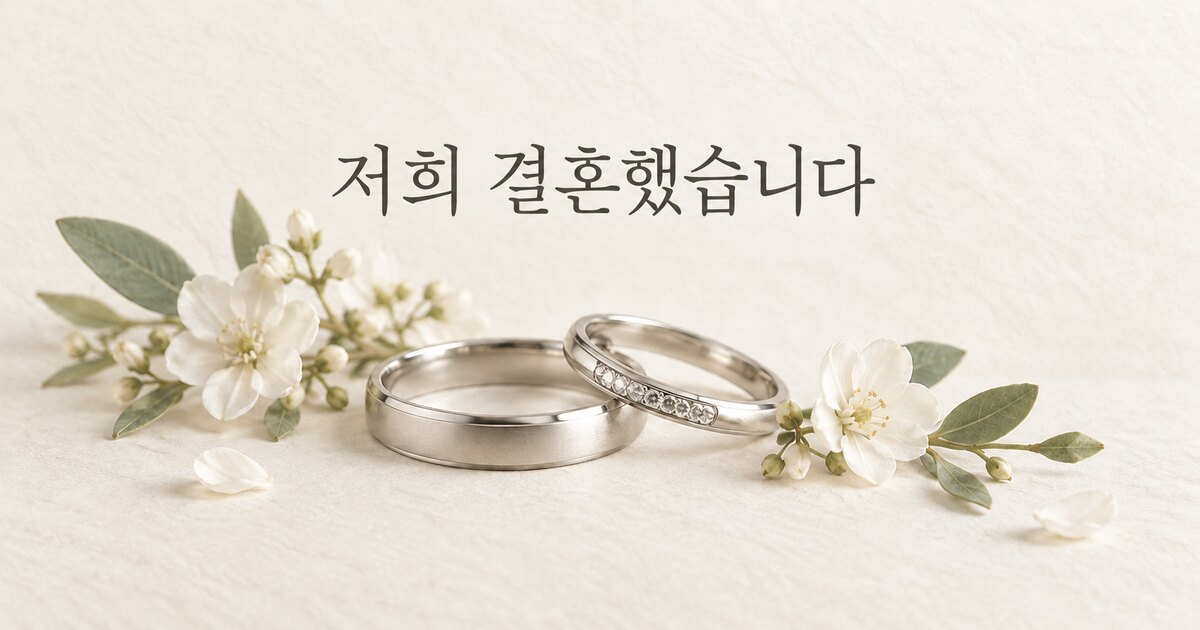
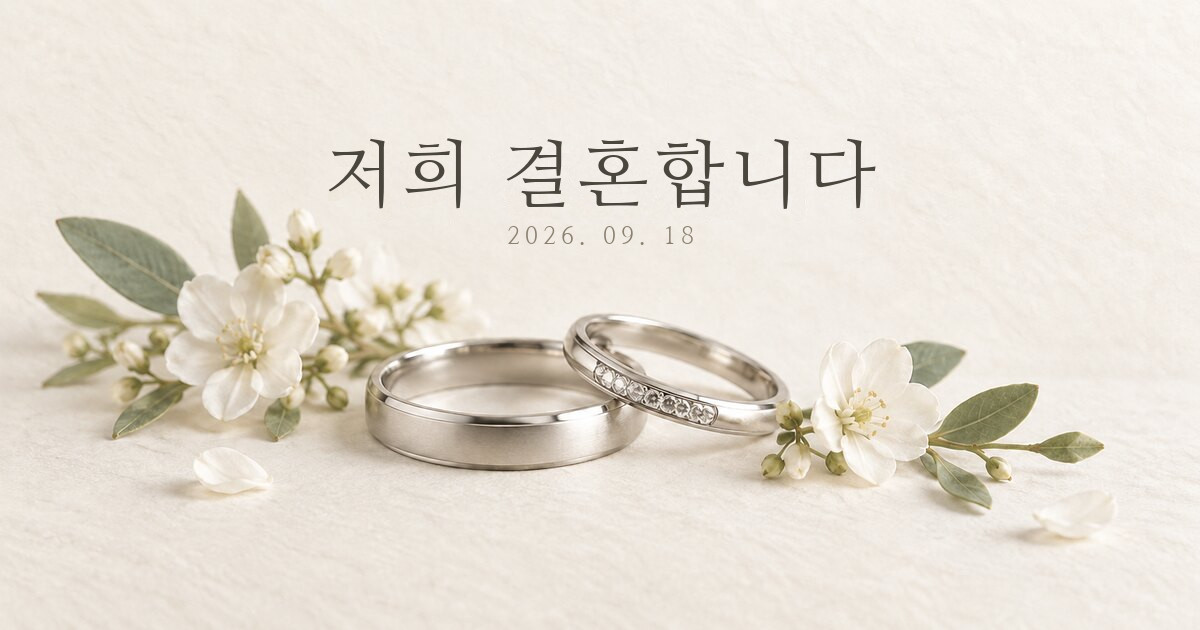
Redraw the OG image caption and drop the preview description
Replace the baked-in "저희 결혼했습니다" caption on og.jpg with the
tense-neutral "저희 결혼합니다" plus the wedding date, generated by
design/og/make_og.py from the archived original. Remove the description
and og:description metas so link previews show only the title and image.

Claude-Session: https://claude.ai/code/session_01C6w8zZ5tQXmWwigBXMWuJm

Changed region(s): [[0.2775, 0.2111, 0.74, 0.3921], [0.555, 0.3619, 0.5858, 0.3921]]

diff --git a/client/index.html b/client/index.html
@@ -5,14 +5,12 @@
     <meta name="viewport" content="width=device-width, initial-scale=1.0, viewport-fit=cover" />
     <meta name="robots" content="noindex" />
     <meta name="theme-color" content="#f4efe6" />
-    <meta name="description" content="저희 두 사람의 결혼을 알려 드립니다." />
     <title>서상현 · 주정정 — 결혼 알림</title>
     <!-- 링크 미리보기(카카오톡·iMessage 등). og:image 는 절대 URL 이어야 한다 -->
     <meta property="og:type" content="website" />
     <meta property="og:url" content="https://7chan.3chan.kr/" />
     <link rel="canonical" href="https://7chan.3chan.kr/" />
     <meta property="og:title" content="서상현 · 주정정 — 결혼 알림" />
-    <meta property="og:description" content="저희 두 사람의 결혼을 알려 드립니다." />
     <meta property="og:image" content="https://7chan.3chan.kr/og.jpg" />
     <meta property="og:image:width" content="1200" />
     <meta property="og:image:height" content="630" />

diff --git a/design/og/make_og.py b/design/og/make_og.py
@@ -1,0 +1,73 @@
+"""og.jpg 재생성: 원본의 '저희 결혼했습니다' 글자를 지우고 시제 없는 문구와 날짜를 그린다."""
+import sys
+from PIL import Image, ImageDraw, ImageFilter, ImageFont
+import numpy as np
+
+src, out_dir, fonts = sys.argv[1], sys.argv[2], sys.argv[3]
+im = Image.open(src).convert('RGB')
+W, H = im.size
+arr = np.asarray(im).astype(np.float32)
+
+# 1) 기존 글자 검출: 상단 가운데 영역에서 어두운 픽셀
+lum = arr @ np.array([0.299, 0.587, 0.114], dtype=np.float32)
+region = np.zeros((H, W), bool)
+region[125:228, 325:895] = True
+sat = arr.max(-1) - arr.min(-1)  # 잎·꽃술은 채도가 있어 제외하고 회색 글자만 잡는다
+text = (lum < 200) & (sat < 45) & region
+ys, xs = np.where(text)
+print('text bbox', xs.min(), ys.min(), xs.max(), ys.max())
+
+# 2) 마스크 팽창 후 정규화 컨볼루션으로 종이 질감 채우기
+mask = Image.fromarray((text * 255).astype(np.uint8)).filter(ImageFilter.MaxFilter(9))
+m = np.asarray(mask).astype(np.float32) / 255.0
+keep = 1.0 - m
+def blur(a, r):
+    # float 배열용 분리형 가우시안 블러 (PIL GaussianBlur는 'F' 모드를 지원하지 않는다)
+    n = int(np.ceil(3 * r))
+    k = np.arange(-n, n + 1, dtype=np.float32)
+    k = np.exp(-(k ** 2) / (2 * r * r)); k /= k.sum()
+    pad = len(k) // 2
+    a = np.pad(a, pad, mode='edge')
+    a = np.apply_along_axis(lambda v: np.convolve(v, k, mode='valid'), 1, a)
+    a = np.apply_along_axis(lambda v: np.convolve(v, k, mode='valid'), 0, a)
+    return a.astype(np.float32)
+filled = arr.copy()
+for r in (6, 14, 30):  # 작은 반경부터 채워 남은 구멍은 큰 반경으로
+    num = np.stack([blur((filled[..., c] * keep).astype(np.float32), r) for c in range(3)], -1)
+    den = blur(keep.astype(np.float32), r)[..., None]
+    ok = den[..., 0] > 0.05
+    est = np.where(ok[..., None], num / np.maximum(den, 1e-3), filled)
+    filled = np.where(m[..., None] > 0, est, filled)
+# 채운 부분에 은은한 종이 노이즈를 더해 평평해 보이지 않게 한다
+rng = np.random.default_rng(7)
+noise = blur(rng.normal(0, 3.2, (H, W)).astype(np.float32), 0.8)
+filled = filled + (noise[..., None] * m[..., None])
+clean = Image.fromarray(np.clip(filled, 0, 255).astype(np.uint8))
+clean.save(f'{out_dir}/clean.png')
+
+INK = (74, 69, 61)      # tokens.ink70
+MUTE = (138, 129, 114)  # tokens.caption
+
+def draw_text(img, text, font, y_center, color, tracking=0):
+    d = ImageDraw.Draw(img)
+    widths = [d.textlength(ch, font=font) for ch in text]
+    total = sum(widths) + tracking * (len(text) - 1)
+    x = (W - total) / 2
+    bbox = font.getbbox('한')  # 글자 높이 기준으로 세로 중앙
+    yh = (bbox[1] + bbox[3]) / 2
+    for ch, w in zip(text, widths):
+        d.text((x, y_center - yh), ch, font=font, fill=color)
+        x += w + tracking
+
+variants = {
+    'a': ('저희 결혼합니다', 74, 6),
+    'b': ('저희 두 사람의 결혼을 알려 드립니다', 50, 3),
+}
+for key, (msg, size, tr) in variants.items():
+    img = clean.copy()
+    main = ImageFont.truetype(f'{fonts}/NanumMyeongjo-Regular.ttf', size)
+    draw_text(img, msg, main, 172, INK, tracking=tr)
+    date = ImageFont.truetype(f'{fonts}/NanumMyeongjo-Regular.ttf', 24)
+    draw_text(img, '2026. 09. 18', date, 236, MUTE, tracking=5)
+    img.save(f'{out_dir}/og-{key}.jpg', quality=90, subsampling=0, optimize=True)
+    print('wrote', key)

diff --git a/CLAUDE.md b/CLAUDE.md
@@ -41,7 +41,8 @@
   `weddingLabel`)은 `i18n.ts`의 각 로케일 `before`/`after`에 따로 둔다. `tokens.ts`의 `weddingPhase()`가
   방문자의 현지 날짜를 혼인일과 비교해 혼인일 당일부터 `after`를 고르고, `App.tsx`의 `getStrings(locale, phase)`가
   합쳐서 컴포넌트에 넘긴다. 혼인일 전에 열어 둔 화면은 자정을 넘기면 자동으로 `after`로 바뀐다.
-  `index.html`의 meta description은 정적이라 시제가 없는 문구("저희 두 사람의 결혼을 알려 드립니다.")를 쓴다.
+  `index.html`에는 description·og:description 메타를 두지 않는다(정적이라 시제를 맞출 수 없고, 미리보기 카드에
+  설명 문구를 아예 보이지 않게 하려는 의도. 2026-09-12 결정). 카드에는 제목과 이미지만 나온다.
   두 벌 모두 4개 로케일을 함께 수정 → 재빌드 필요
 - 함께한 날(D+): `client/src/tokens.ts` 의 `RELATIONSHIP_START`(2025-02-12) 기준. 방문자의 현지 날짜로 계산하며 시작일은 D+0이다. `DATE_HIDDEN`이 true이면 기존처럼 숨긴다 → 재빌드 필요
 - 사진: `data/media/couple.jpg` (세로 4:5) 드롭 → 즉시 반영. 없으면 囍 장식 밴드가 기본
@@ -116,8 +117,9 @@
   삭제했고, 제작 자료(`design/story-04/map/illustrated/`의 `generated-map.png`·`generation-prompt.txt`·
   `prepare.cjs`, Natural Earth GeoJSON, 걷기 스프라이트 시안)와 재생성 절차는 `design/story-04/README.md`에
   그대로 보관한다. 되살리려면 git 이력(커밋 b45499d 시점)의 `StoryMap.tsx`와 `index.css`의 `.story-map` 규칙을 참고한다.
-- 링크 미리보기 이미지: `client/public/og.jpg` (1200×630 JPEG, index.html 의 og:image 절대 URL). 바꾸면 재빌드 후
-  카카오 캐시 초기화(developers.kakao.com/tool/clear/og) 필요
+- 링크 미리보기 이미지: `client/public/og.jpg` (1200×630 JPEG, index.html 의 og:image 절대 URL). 반지 사진 위에
+  시제 없는 문구 "저희 결혼합니다"와 혼인일을 그린다. 원본·생성 스크립트·재생성 절차는 `design/og/README.md`.
+  바꾸면 재빌드 후 카카오 캐시 초기화(developers.kakao.com/tool/debugger/sharing, 로그인 필요) 필요
 - 파비콘: `client/public/` 의 favicon.ico · favicon-32.png · icon-192.png · apple-touch-icon.png(종이색 배경).
   원본은 반지 사진 PNG(920²) — 바꾸면 같은 4개 파일 재생성 후 재빌드 필요
 - 방명록: `data/guestbook.json` 단일 파일. 시드 없음(없으면 빈 방명록). 손으로 고쳤으면 `docker compose restart app`

diff --git a/design/og/README.md b/design/og/README.md
@@ -1,0 +1,23 @@
+# 링크 미리보기 이미지(og.jpg) 제작 자료
+
+- `original-2026-09-08.jpg` — 처음 만든 이미지. 반지 사진 위에 "저희 결혼했습니다"가 그려져 있었다.
+- `make_og.py` — 원본의 글자를 검출해 종이 질감으로 메운 뒤(정규화 컨볼루션 + 은은한 노이즈),
+  나눔명조로 새 문구와 혼인일을 그린다. 시안 a("저희 결혼합니다")와 b("저희 두 사람의 결혼을 알려 드립니다")를 만든다.
+- `variant-b-long-caption.jpg` — 채택하지 않은 시안 b.
+- 2026-09-12에 시안 a를 `client/public/og.jpg`로 적용했다. 혼인일 전후 모두 자연스럽도록 시제 없는 문구를 골랐다.
+
+## 재생성
+
+폰트는 저장소에 넣지 않는다. Google Fonts 저장소에서 내려받는다.
+
+```sh
+mkdir -p /tmp/og/fonts && cd /tmp/og/fonts
+curl -sfLO https://github.com/google/fonts/raw/main/ofl/nanummyeongjo/NanumMyeongjo-Regular.ttf
+cd /srv/married
+docker run --rm -v "$PWD/design/og:/w/og" -v /tmp/og/fonts:/w/fonts -w /w python:3.12-slim \
+  sh -c "pip install -q pillow numpy && python og/make_og.py og/original-2026-09-08.jpg og fonts"
+cp design/og/og-a.jpg client/public/og.jpg
+```
+
+문구·크기·색은 `make_og.py`의 `variants`와 `INK`/`MUTE`에서 바꾼다. 적용 뒤 재빌드하고
+카카오 캐시 초기화(developers.kakao.com/tool/debugger/sharing)가 필요하다.
